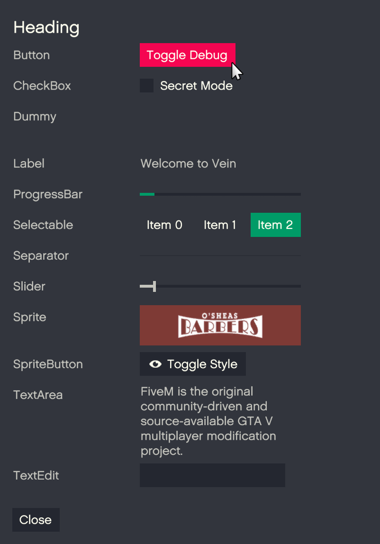
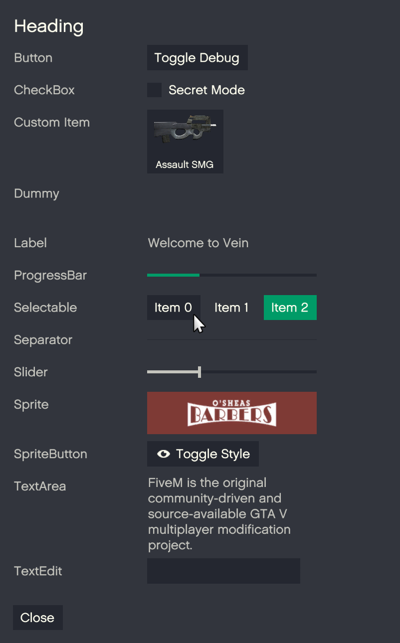
Add custom item

diff --git a/inventoryitem.js b/inventoryitem.js
@@ -1,0 +1,36 @@
+const II_GEOMETRY = {
+	sprite: { w: 0.05, h: 0.044 },
+	padding: { x: 0.005, y: 0.005 },
+	label: { h: 0.035 }
+};
+
+const II_SIZE = {
+	w: II_GEOMETRY.sprite.w + II_GEOMETRY.padding.x * 2,
+	h: II_GEOMETRY.sprite.h + II_GEOMETRY.label.h + II_GEOMETRY.padding.y * 2
+};
+
+function inventoryItem(text, spriteDict, spriteName) {
+	const ctx = exports.vein.getContext();
+
+	ctx.beginItem(II_SIZE.w, II_SIZE.h);
+
+	const p = ctx.getPainter();
+
+	if (ctx.isItemHovered()) p.setColor(245, 5, 81, 255);
+	else p.setColor(36, 39, 48, 255);
+	p.drawRect(II_SIZE.w, II_SIZE.h);
+
+	p.move(II_GEOMETRY.padding.x, II_GEOMETRY.padding.y);
+	p.setColor(254, 254, 254, 255);
+	p.drawSprite(spriteDict, spriteName, II_GEOMETRY.sprite.w, II_GEOMETRY.sprite.h);
+	p.move(-II_GEOMETRY.padding.x, -II_GEOMETRY.padding.y);
+
+	p.setText(0, 0.25, text);
+	p.move((II_SIZE.w - p.getTextWidth()) / 2, II_GEOMETRY.sprite.h + II_GEOMETRY.label.h / 2 + II_GEOMETRY.padding.y);
+	p.setColor(255, 255, 240, 255);
+	p.drawText();
+
+	ctx.endItem();
+
+	return ctx.isItemClicked();
+}

diff --git a/demo.js b/demo.js
@@ -43,6 +43,13 @@
 		vein.endRow();
 
 		vein.beginRow();
+		drawLabel('Custom Item');
+
+		RequestStreamedTextureDict('mpweaponscommon_small');
+		inventoryItem('Assault SMG', 'mpweaponscommon_small', 'w_sb_assaultsmg');
+		vein.endRow();
+
+		vein.beginRow();
 		drawLabel('Dummy');
 
 		vein.dummy(controlWidth, 0.059);
@@ -51,8 +58,7 @@
 		vein.beginRow();
 		drawLabel('Label');
 
-		vein.setNextTextEntry('STRING', 'Welcome to Vein');
-		vein.label();
+		vein.label('Welcome to Vein');
 		vein.endRow();
 
 		vein.beginRow();
